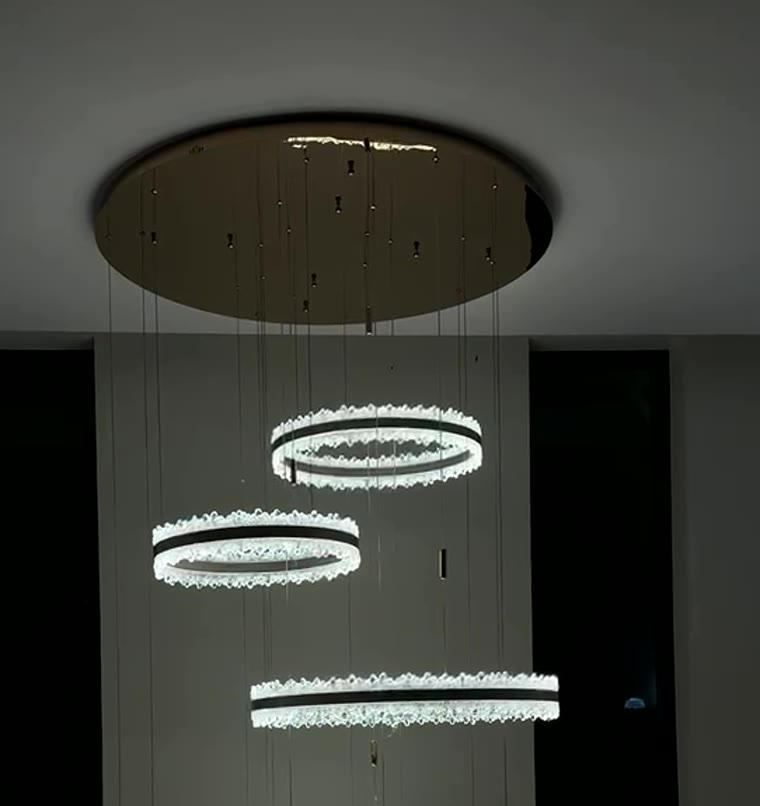
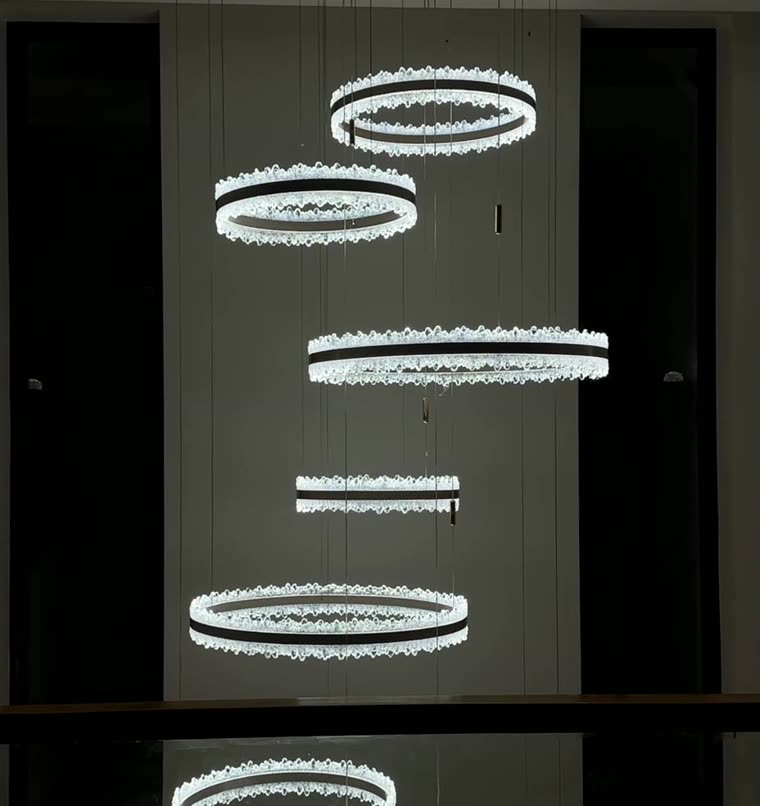
Replace placeholder imagery with the client's real project photography
Pulled all 31 photos from the shared Drive folder and processed them
into the site (cover-cropped, lightly graded, web-compressed):

- Hero slideshow: five real projects, hotel lobby bubble chandelier,
  banquet hall, villa exterior at night, lift lobby crystal ceiling,
  and a facade traced in cove light.
- Shop by space: real photographs replace the SVG scenes. The Bedroom
  category is relabelled Stairwells and Voids, because the photography
  and the business are genuinely about double-height cascades, and
  labelling a stairwell shot Bedroom would have been misleading.
- Featured products and shop cards now use real fixtures, with prices
  corrected to match what the photographs actually show (a grand tiered
  chandelier is not a sconce), and the bespoke cascade marked made to
  order rather than carrying an invented price.
- Consultation, Customisation and Stores pages use real install and
  showroom photography, including the Celestial Lights brand wall and
  a crew shot from an actual installation.

Seeded video stills retired. Total added imagery ~3.3MB.

Claude-Session: https://claude.ai/code/session_01ALyXjA86ecYHN54jjR4zKZ

diff --git a/index.html b/index.html
@@ -35,10 +35,11 @@
 <!-- ============ HERO ============ -->
 <section class="hero" id="heroSection">
   <div class="hero-media" id="heroSlides">
-    <div class="hero-slide active"><img src="assets/photos/slide-1-crystal.jpg" alt="Crystal bubble chandeliers in the Celestial Lights showroom" fetchpriority="high"></div>
-    <div class="hero-slide"><img src="assets/photos/slide-2-petal.jpg" alt="Cascading white petal pendants" loading="lazy"></div>
-    <div class="hero-slide"><img src="assets/photos/slide-3-rings.jpg" alt="Crystal LED ring chandelier over a stairwell" loading="lazy"></div>
-    <div class="hero-slide"><img src="assets/photos/slide-4-cascade.jpg" alt="Glass leaf cascade installation" loading="lazy"></div>
+    <div class="hero-slide active"><img src="assets/photos/hero-1.jpg" alt="Hotel lobby lit by a custom crystal bubble chandelier" fetchpriority="high"></div>
+    <div class="hero-slide"><img src="assets/photos/hero-2.jpg" alt="Banquet hall with a run of blossom pendant chandeliers" loading="lazy"></div>
+    <div class="hero-slide"><img src="assets/photos/hero-3.jpg" alt="Villa exterior at night with garden and facade lighting" loading="lazy"></div>
+    <div class="hero-slide"><img src="assets/photos/hero-4.jpg" alt="Lift lobby with a crystal ceiling installation" loading="lazy"></div>
+    <div class="hero-slide"><img src="assets/photos/hero-5.jpg" alt="Building facade traced in warm cove lighting" loading="lazy"></div>
     <div class="hero-gradient"></div>
     <div class="hero-watermark" aria-hidden="true">ELOR</div>
   </div>
@@ -80,19 +81,19 @@
     </div>
     <div class="spaces">
       <a class="space-card rv" href="shop.html#living">
-        <img src="assets/spaces/living.svg" alt="Living room lit by a pendant and floor lamp">
+        <img src="assets/spaces/living.jpg" alt="Crystal chandelier lighting a warm living space">
         <div class="space-info"><h3>Living Room</h3><p>Pendants, floor lamps &amp; accent walls</p><span class="go">→</span></div>
       </a>
-      <a class="space-card rv rv-d1" href="shop.html#bedroom">
-        <img src="assets/spaces/bedroom.svg" alt="Bedroom with warm bedside wall lights">
-        <div class="space-info"><h3>Bedroom</h3><p>Bedside sconces &amp; soft cove light</p><span class="go">→</span></div>
+      <a class="space-card rv rv-d1" href="shop.html#stairwell">
+        <img src="assets/spaces/bedroom.jpg" alt="Gold spiral chandelier falling through a home stairwell">
+        <div class="space-info"><h3>Stairwells &amp; Voids</h3><p>Cascades &amp; double-height pieces</p><span class="go">→</span></div>
       </a>
       <a class="space-card rv rv-d2" href="shop.html#outdoor">
-        <img src="assets/spaces/outdoor.svg" alt="Building facade with up-down wall lights and garden bollards">
+        <img src="assets/spaces/outdoor.jpg" alt="Building facade traced in warm cove lighting at night">
         <div class="space-info"><h3>Outdoor &amp; Facade</h3><p>Wall washers, lanterns &amp; bollards</p><span class="go">→</span></div>
       </a>
       <a class="space-card rv rv-d3" href="shop.html#commercial">
-        <img src="assets/spaces/commercial.svg" alt="Restaurant interior with a row of warm pendant lights">
+        <img src="assets/spaces/commercial.jpg" alt="Banquet hall lit by a run of blossom chandeliers">
         <div class="space-info"><h3>Commercial</h3><p>Retail, hospitality &amp; office lighting</p><span class="go">→</span></div>
       </a>
     </div>
@@ -111,35 +112,35 @@
     </div>
     <div class="prod-grid">
       <a class="prod-card rv" href="shop.html">
-        <div class="prod-media"><span class="prod-tag">Bestseller</span><img src="assets/products/aurel-sconce.svg" alt="Aurel curve wall sconce with warm downlight"></div>
+        <div class="prod-media photo"><span class="prod-tag">Bestseller</span><img src="assets/products/photo-gold.jpg" alt="Gold tiered crystal chandelier in a warm interior" loading="lazy"></div>
         <div class="prod-body">
-          <p class="p-cat">Wall Light</p>
-          <h3>Aurel Curve Sconce</h3>
-          <div class="prod-price"><span class="now">₹2,450</span><span class="was">₹3,190</span><span class="off">23% off</span></div>
+          <p class="p-cat">Chandelier</p>
+          <h3>Aurelia Tiered Crystal</h3>
+          <div class="prod-price"><span class="now">₹42,500</span><span class="was">₹54,000</span><span class="off">21% off</span></div>
         </div>
       </a>
       <a class="prod-card rv rv-d1" href="shop.html">
         <div class="prod-media photo"><span class="prod-tag">New</span><img src="assets/products/photo-rings.jpg" alt="Crystal LED ring chandelier installed over a stairwell"></div>
         <div class="prod-body">
           <p class="p-cat">Ring Chandelier</p>
-          <h3>Halo Ring Light</h3>
-          <div class="prod-price"><span class="now">₹3,200</span><span class="was">₹3,900</span><span class="off">18% off</span></div>
+          <h3>Halo Ring Cascade</h3>
+          <div class="prod-price"><span class="now">₹36,800</span><span class="was">₹44,500</span><span class="off">17% off</span></div>
         </div>
       </a>
       <a class="prod-card rv rv-d2" href="shop.html">
         <div class="prod-media photo"><img src="assets/products/photo-cascade.jpg" alt="Crystal bubble chandelier glowing on a dark showroom wall"></div>
         <div class="prod-body">
           <p class="p-cat">Chandelier</p>
-          <h3>Cascade Chandelier</h3>
-          <div class="prod-price"><span class="now">₹18,900</span><span class="was">₹24,500</span><span class="off">23% off</span></div>
+          <h3>Grand Crystal Chandelier</h3>
+          <div class="prod-price"><span class="now">₹1,18,000</span><span class="was">₹1,45,000</span><span class="off">19% off</span></div>
         </div>
       </a>
       <a class="prod-card rv rv-d3" href="shop.html">
-        <div class="prod-media"><span class="prod-tag">Outdoor</span><img src="assets/products/cane-lantern.svg" alt="Brass cane wall lantern with caged warm glass"></div>
+        <div class="prod-media photo"><span class="prod-tag">Bespoke</span><img src="assets/products/photo-leaf.jpg" alt="Glass leaf cascade falling through a stairwell" loading="lazy"></div>
         <div class="prod-body">
-          <p class="p-cat">Outdoor</p>
-          <h3>Cane Wall Lantern</h3>
-          <div class="prod-price"><span class="now">₹4,150</span><span class="was">₹5,250</span><span class="off">21% off</span></div>
+          <p class="p-cat">Cascade</p>
+          <h3>Glass Leaf Cascade</h3>
+          <div class="prod-price"><span class="now">Made to order</span></div>
         </div>
       </a>
     </div>
@@ -214,7 +215,7 @@
   <div class="wrap">
     <div class="split">
       <div class="split-art rv">
-        <img src="assets/consult-plan.svg" alt="Lighting layout plan with fixture positions and annotations">
+        <img src="assets/photos/custom-install.jpg" alt="A glass leaf cascade being installed from scaffolding" loading="lazy">
       </div>
       <div>
         <p class="eyebrow rv">Consultation &amp; implementation</p>
@@ -261,7 +262,7 @@
         <a class="btn btn-gold rv rv-d3" href="consultation.html#form">Discuss Your Project <span class="arr">→</span></a>
       </div>
       <div class="split-art rv rv-d1">
-        <img src="assets/spaces/commercial.svg" alt="Commercial interior with a row of pendant lights over tables" style="aspect-ratio: 4/4.2; object-fit: cover; width: 100%;">
+        <img src="assets/spaces/commercial.jpg" alt="Commercial interior with a row of pendant lights over tables" style="aspect-ratio: 4/4.2; object-fit: cover; width: 100%;">
       </div>
     </div>
   </div>

diff --git a/stores.html b/stores.html
@@ -34,9 +34,16 @@
 
 <section class="page-hero">
   <div class="wrap">
+    <div class="split">
+      <div>
     <p class="eyebrow rv">Celestial Lights · An Elor Lighting experience</p>
     <h1 class="h-lg rv rv-d1">Some things you have to<br><span class="serif-i">stand under</span> to understand.</h1>
     <p class="lede rv rv-d2" style="margin-top: 22px;">A photo can’t show you how 2700K feels on your skin at 7 PM. Our three experience stores keep hundreds of fixtures burning live, so you compare glow against glow, with a lighting consultant beside you, not a salesperson behind you.</p>
+      </div>
+      <div class="split-art rv rv-d2">
+        <img src="assets/photos/store-wall.jpg" alt="The Celestial Lights showroom wall hung with crystal chandeliers" loading="lazy">
+      </div>
+    </div>
   </div>
 </section>
 

diff --git a/customisation.html b/customisation.html
@@ -44,7 +44,7 @@
         </div>
       </div>
       <div class="split-art rv rv-d2">
-        <img src="assets/photos/slide-4-cascade.jpg" alt="A custom glass leaf cascade being installed in a double-height space">
+        <img src="assets/photos/custom-install.jpg" alt="A custom glass leaf cascade being installed from scaffolding">
       </div>
     </div>
   </div>
@@ -83,7 +83,7 @@
 
     <div class="split" style="margin-top: 90px;">
       <div class="split-art rv">
-        <img src="assets/photos/slide-1-crystal.jpg" alt="Crystal bubble chandelier cluster in the Celestial Lights showroom">
+        <img src="assets/photos/custom-crew.jpg" alt="Our crew installing a grand crystal chandelier on site">
       </div>
       <div>
         <p class="eyebrow rv">Beyond resizing</p>

diff --git a/js/main.js b/js/main.js
@@ -66,6 +66,7 @@
     // Space links from the homepage map to a sensible starting filter
     var hashMap = {
       living: "pendant",
+      stairwell: "pendant",
       bedroom: "wall",
       outdoor: "outdoor",
       commercial: "pendant"
